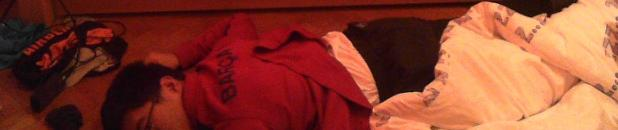
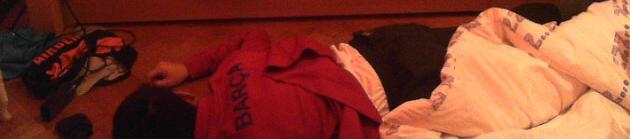
ajout de la fonction d'amélioration de l'image

diff --git a/ameliration_image.py b/ameliration_image.py
@@ -1,0 +1,66 @@
+import matplotlib.pyplot as plt
+import skimage as skim
+import numpy as np
+
+# I = plt.imread('./MEDIA/IMG/video_003_008.jpg')
+
+# plt.subplot(6,2,1)
+# plt.imshow(I, cmap='gray')
+
+# I_gray = skim.color.rgb2gray(I)
+
+# I_inv = skim.util.invert(I_gray)
+# plt.subplot(6,2,2)
+# plt.imshow(I_inv, cmap='gray')
+
+# I_inv_corrigee = skim.restoration.denoise_tv_chambolle(I_inv)
+# plt.subplot(6,2,3)
+# plt.imshow(I_inv_corrigee, cmap='gray')
+
+# I_corrigee = skim.util.invert(I_inv_corrigee)
+# plt.subplot(6,2,4)
+# plt.imshow(I_corrigee, cmap='gray')
+
+# I_gamma = skim.exposure.adjust_gamma(I_corrigee, 0.5)
+# plt.subplot(6,2,5)
+# plt.imshow(I_gamma, cmap='gray')
+
+# I_hist = skim.exposure.equalize_hist(I_gamma)
+# plt.subplot(6,2,6)
+# plt.imshow(I_hist, cmap='gray')
+
+
+
+# skim.io.imsave('test.jpg', skim.util.img_as_ubyte(I_gamma))
+
+# plt.show()
+
+def ameliorer_image(img: np.ndarray) -> np.ndarray:
+    """
+    Prend une image (NumPy array), applique:
+      - conversion en niveaux de gris
+      - inversion
+      - débruitage TV
+      - inversion
+      - correction gamma
+      - égalisation d'histogramme
+    et retourne l'image corrigée (float dans [0,1]).
+    """
+
+    # Convertit en niveaux de gris si l'image est couleur
+    img = skim.color.rgb2gray(img)
+
+    # Pipeline simple
+    I_inv = skim.util.invert(img)
+    I_inv_corrigee = skim.restoration.denoise_tv_chambolle(I_inv)
+    I_corrigee = skim.util.invert(I_inv_corrigee)
+    I_gamma = skim.exposure.adjust_gamma(I_corrigee, 0.5)
+    I_hist = skim.exposure.equalize_hist(I_gamma)
+
+    return I_hist
+
+if __name__ == "__main__":
+    I = plt.imread('./MEDIA/IMG/video_003_008.jpg')
+    I_amelioree = ameliorer_image(I)
+    plt.imshow(I_amelioree, cmap='gray')
+    plt.show()

diff --git a/recup_canap_V3.py b/recup_canap_V3.py
@@ -52,4 +52,4 @@ def analyse_image(
             )
 
 
-analyse_image("MEDIA/IMG", 20)
+analyse_image("MEDIA/IMG", 5)
